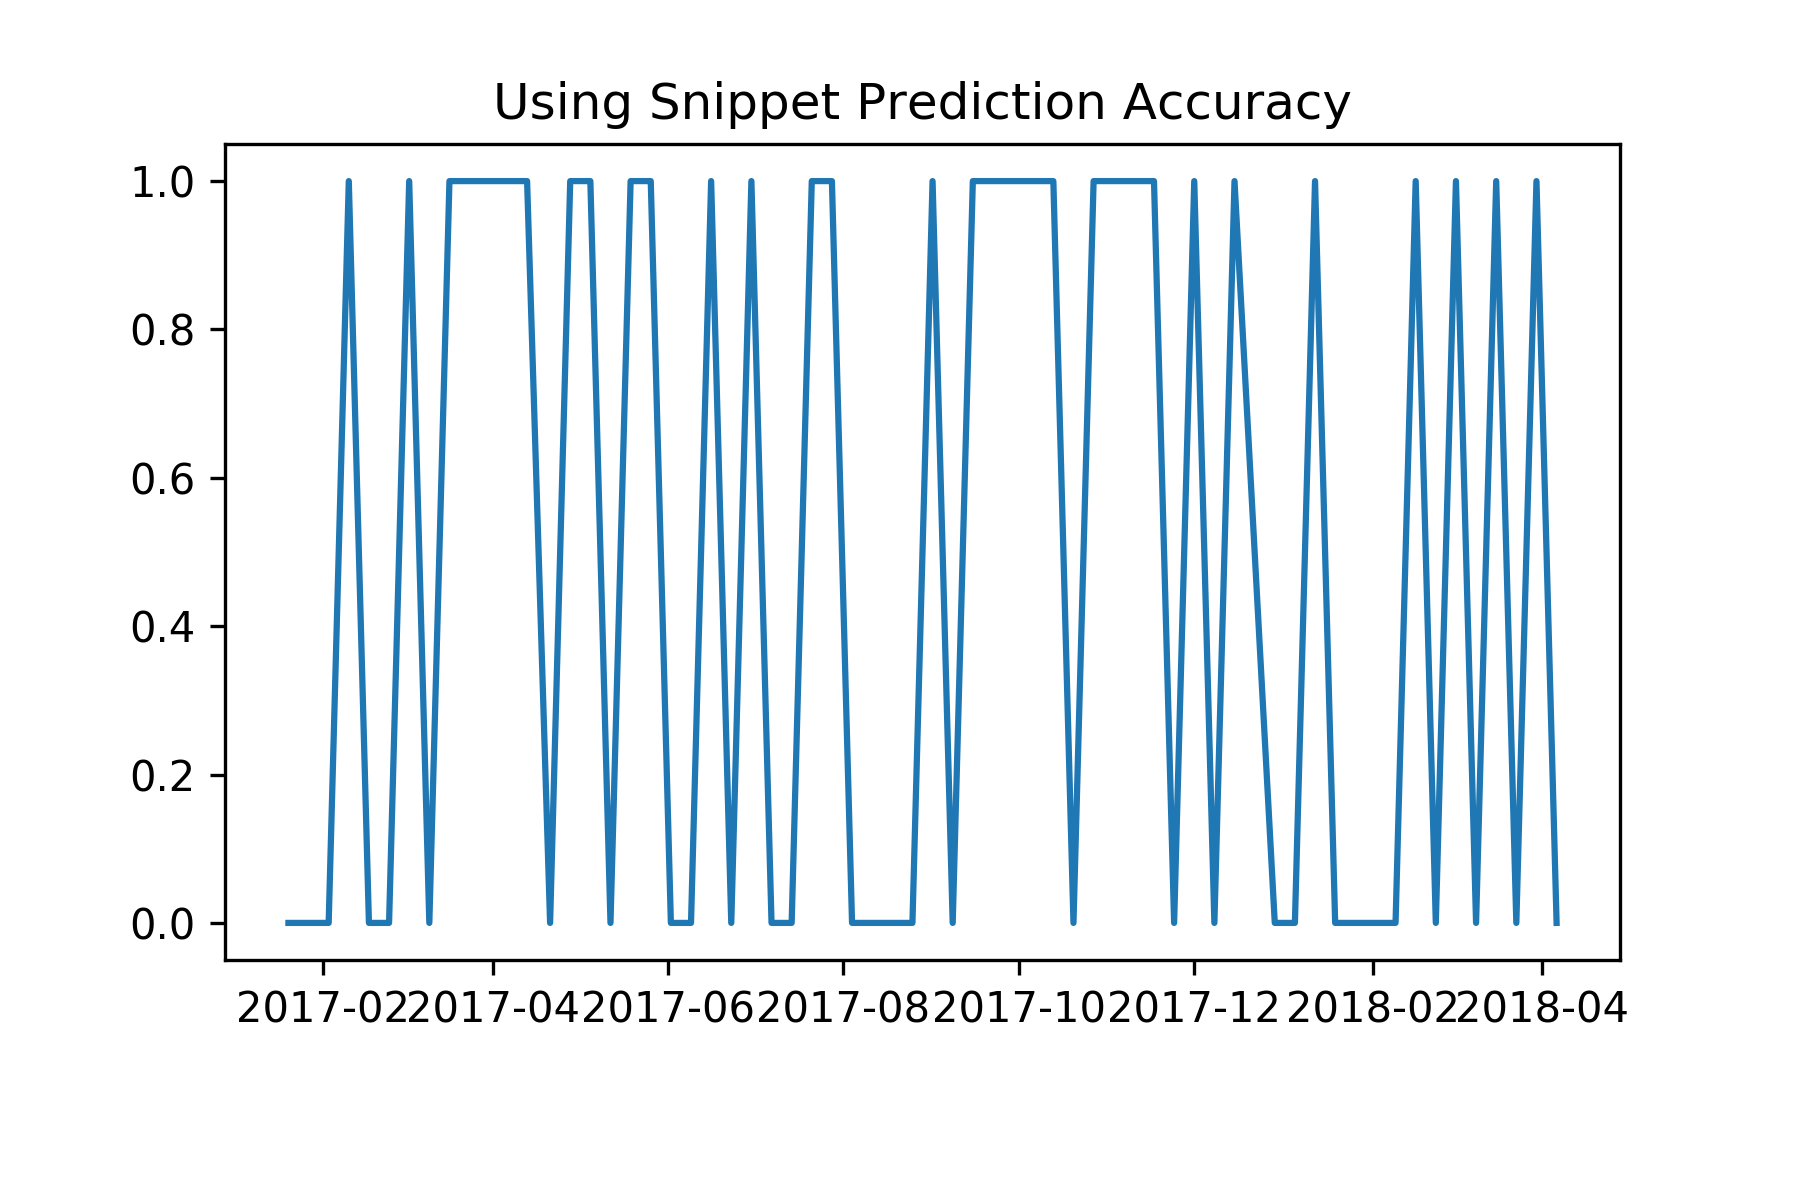
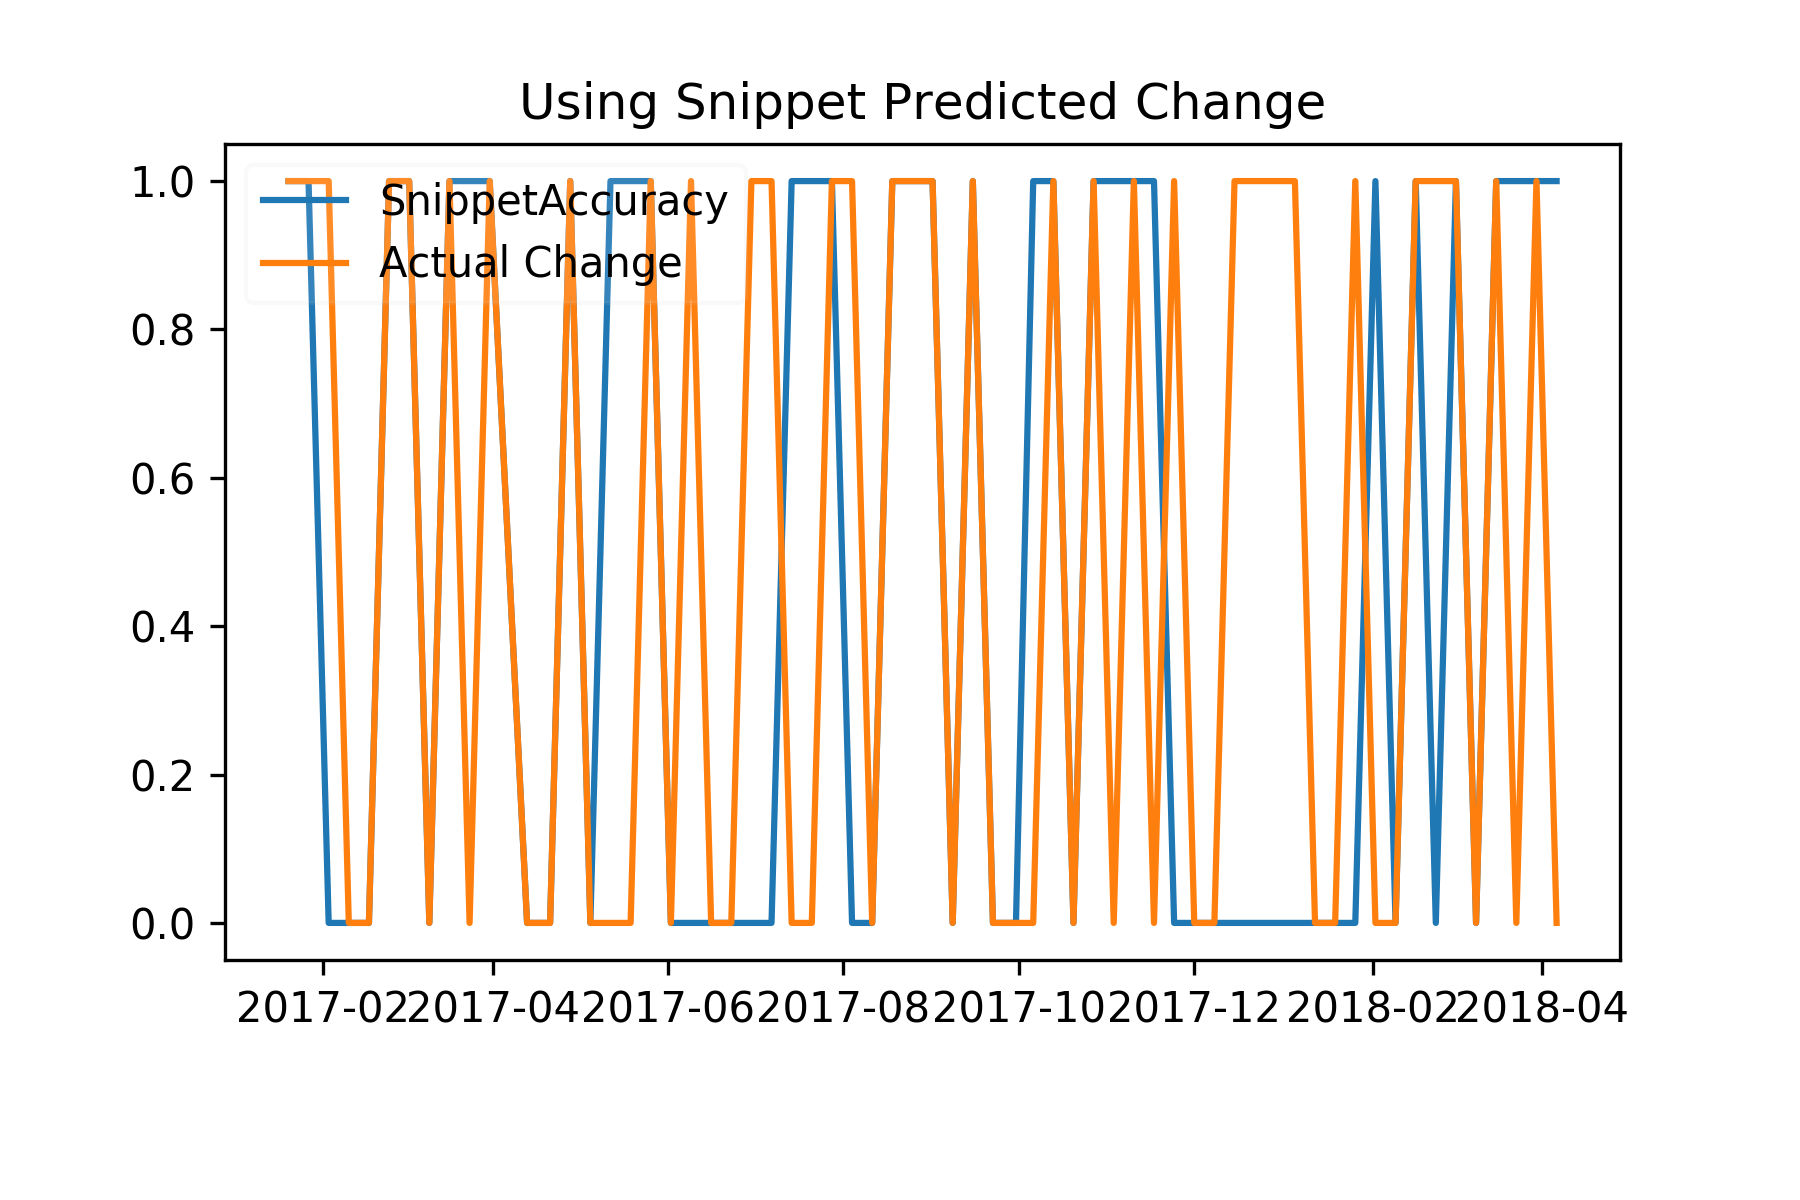
Cleans up the script set, and begins to implement a function to auto determine the pos/neg words
Also implements a stemmer, and produces a word cloud for the stemmed
words

Changed region(s): [[0.1556, 0.0617, 0.8711, 0.7708]]

diff --git a/approval_rating_predictor.py b/approval_rating_predictor.py
@@ -12,15 +12,16 @@ from apiclient.discovery import build
 #import urllib2
 #from bs4 import BeautifulSoup
 import pandas as pd
-from collections import defaultdict
+from collections import defaultdict, Counter
 from datetime import datetime, timedelta
 from string import punctuation
 from wordcloud import WordCloud, STOPWORDS
-import sys
 import matplotlib.pyplot as plt
-import matplotlib.dates as mdates
 import post_process_and_plot as post_process
 import parse_and_clean_html_table as parse_and_clean
+from sklearn.model_selection import train_test_split
+from nltk.stem.snowball import SnowballStemmer
+
 
 config = {}
 execfile("C:\Users\mitch\Desktop\Masters\DataMiningI\DataMiningProject\config.py", config)
@@ -76,7 +77,10 @@ def request_and_write_google_results(poll_df, out_dir, num_requests):
 
 def clean_punctuation(words):
     for c in punctuation:
-        words= words.replace(c," ") 
+        if '\'' in c:
+            words = words.replace(c, '')
+        else:
+            words= words.replace(c," ") 
     return words
 
 def save_word_cloud(words, filename):
@@ -110,10 +114,12 @@ def build_word_cloud(polling_df, out_dir, stop_words):
         filepath = (out_dir + '\\' + my_query +  polling_df.iloc[row]['StartDate']+ '_' + polling_df.iloc[row]['EndDate'] +'.txt')
         data = pd.read_csv(filepath, delimiter="\t")
         snippet_words += get_words_from_dataframe(data, 'Snippet')
-        title_words   +=get_words_from_dataframe(data, 'Title')
-        
-    save_word_cloud(snippet_words, 'snippet_word_cloud')
-    save_word_cloud(title_words, 'title_word_cloud')
+        title_words   += get_words_from_dataframe(data, 'Title')
+    #save_word_cloud(snippet_words, 'snippet_word_cloud')
+    #save_word_cloud(title_words, 'title_word_cloud')
+    #print("".join(stem_words(snippet_words)))
+    save_word_cloud("".join(stem_words(snippet_words)), 'stemmed_snippet_cloud')
+    save_word_cloud("".join(stem_words(title_words)), 'stemmed_title_cloud')
 
 def determine_sentiment_from_words(pos_words, neg_words, words_to_check):
     ##Less negative words count as positive for trump
@@ -123,8 +129,34 @@ def determine_sentiment_from_words(pos_words, neg_words, words_to_check):
             overall_sentiment += 1
         elif word in neg_words:
             overall_sentiment -= 1
-    #print(overall_sentiment)
     return overall_sentiment
+
+def stem_words(words_to_stem):
+    stemmer = SnowballStemmer("english")
+    words_ret = []
+    for words in words_to_stem:
+        words_ret.append(stemmer.stem(words))
+    return words_ret
+
+def determine_sentiment_auto(polling_df, out_dir):
+    X_train, X_test, y_train, y_test = train_test_split(polling_df[['StartDate','EndDate']], polling_df['ApprovalPosChange'])
+    positive_counter = Counter()
+    negative_counter = Counter()
+    for index, row in X_train.iterrows():
+        filepath = (out_dir + '\\' + my_query +  row['StartDate']+ '_' + row['EndDate'] +'.txt')
+        data = pd.read_csv(filepath, delimiter="\t")
+        snippet_words = get_words_from_dataframe(data, 'Snippet')
+        title_words   = get_words_from_dataframe(data, 'Title')
+        #test_stem = (stem_words(snippet_words.split()))
+        all_words = stem_words(snippet_words.split() + title_words.split())
+        if polling_df.loc[index, 'ApprovalPosChange'] == 1:
+            for word in all_words:
+                positive_counter[word] += 1
+        else:
+            for word in all_words:
+                ##If we don't add all -1 will be weighted equally
+                negative_counter[word] += 1
+    return (positive_counter, negative_counter)
 
 def predict_approval_rating_change(polling_data, out_dir, pos_words, neg_words):
     rows, _ = polling_data.shape
@@ -134,22 +166,20 @@ def predict_approval_rating_change(polling_data, out_dir, pos_words, neg_words):
         data = pd.read_csv(filepath, delimiter="\t")
         snippet_words = get_words_from_dataframe(data, 'Snippet')
         title_words   = get_words_from_dataframe(data, 'Title')
-        #polling_data.iloc[row]['SnippetPred'] = determine_sentiment_from_words(pos_words, neg_words, snippet_words)
         sentiment_values['snippet_words'].append(determine_sentiment_from_words(pos_words, neg_words, snippet_words))
-        #polling_data.iloc[row]['TitlePred'] = determine_sentiment_from_words(pos_words, neg_words, title_words)
         sentiment_values['title_words'].append(determine_sentiment_from_words(pos_words, neg_words, title_words))
     return sentiment_values
     
 def personal_sentiment_analysis(reuters_df, out_dir, positive_words, negative_words):
-    #reuters_df['ApprovalChange'] = reuters_df.loc[:,'Approve'].diff().fillna(0)
-    approval_change_series = reuters_df.loc[:,'Approve'].diff().fillna(0)
-    reuters_df['ApprovalChange'] = approval_change_series
+    reuters_df['ApprovalChange']    = reuters_df.loc[:,'Approve'].diff(-1).fillna(0)
     reuters_df['ApprovalPosChange'] = (reuters_df.loc[:,'ApprovalChange'] >= 0)
+    
     sentiment_values = predict_approval_rating_change(reuters_df, out_dir, positive_words, negative_words)
-    reuters_df['SnippetChange'] = sentiment_values['snippet_words']
+
+    reuters_df['SnippetChange']  = sentiment_values['snippet_words']
     reuters_df['SnippetPosPred'] = (reuters_df.loc[:,'SnippetChange'] >= 0)
-    reuters_df['TitleChange'] = sentiment_values['title_words']
-    reuters_df['TitlePosPred'] = (reuters_df.loc[:,'TitleChange'] >= 0)
+    reuters_df['TitleChange']    = sentiment_values['title_words']
+    reuters_df['TitlePosPred']   = (reuters_df.loc[:,'TitleChange'] >= 0)
     return reuters_df
 
 def main(my_query, url, out_dir, polling_data_framename, 
@@ -160,7 +190,8 @@ def main(my_query, url, out_dir, polling_data_framename,
         polling_df = parse_and_clean.parse_html_for_table(url, table_index)
         polling_df.to_csv(path_or_buf = out_dir + '\\' + polling_data_framename)
     else:
-        polling_df = pd.DataFrame.from_csv(path = out_dir + '\\' + polling_data_framename)
+        #polling_df = pd.DataFrame.from_csv(path = out_dir + '\\' + polling_data_framename)
+        polling_df = pd.read_csv(out_dir + '\\' + polling_data_framename)
         
     polling_dates = parse_and_clean.modify_dates_to_contain_year(polling_df['Date'], latest_year)
     
@@ -169,14 +200,16 @@ def main(my_query, url, out_dir, polling_data_framename,
     
     #pollsters = set(polling_df['Poll'])
     ##Reuters is most common Pollster
-    reuters_df = polling_df[polling_df['Poll'] == 'Reuters/IpsosReuters']
+    reuters_df = polling_df[polling_df['Poll'] == 'Reuters/IpsosReuters'].copy()
     if collect_new_data:
         request_and_write_google_results(reuters_df, out_dir, num_requests)
     
     if populate_wordcloud:
         build_word_cloud(reuters_df, out_dir, stop_words)
-    
     reuters_df = personal_sentiment_analysis(reuters_df, out_dir, positive_words, negative_words)
+
+    pos_count, neg_count = determine_sentiment_auto(reuters_df, out_dir)
+    print(pos_count.most_common(20),neg_count.most_common(20))
     #nltk_sentiment_analysis(reuters_df, out_dir)
     post_process.run_post_processing(reuters_df, out_dir)
 
@@ -191,7 +224,7 @@ if __name__ == "__main__":
     #num_requests = 10
     num_requests = 10
     collect_new_data = False
-    populate_wordcloud = False
+    populate_wordcloud = True
     positive_words = ['deal', 'iran', 'rally', 
                       'aid', 'won', 'top', 'mexico', 
                       'taxes', 'tax', 'plan', 'korea', 'military',

diff --git a/post_process_and_plot.py b/post_process_and_plot.py
@@ -4,6 +4,7 @@ Created on Mon Apr 16 19:27:46 2018
 
 @author: mitch
 """
+from __future__ import division
 import pandas as pd
 import matplotlib.pyplot as plt
 import matplotlib.dates as mdates
@@ -18,18 +19,29 @@ def plot_accuracy_data(polling_results_df, out_dir):
     x = [datetime.strptime(d,'%Y-%m-%d').date() for d in polling_results_df['StartDate']]
     plt.gca().xaxis.set_major_formatter(mdates.DateFormatter('%m/%d/%Y'))
     #plt.gca().xaxis.set_major_locator(mdates.DayLocator())
-    plt.plot(x,polling_results_df['TitleAccuracy'], label = 'Title Accuracy')
+    plt.plot(x,polling_results_df['TitleAccuracy'], label = 'Title Change')
     plt.gcf().autofmt_xdate()
-    plt.title('Using Article Title Prediction Accuracy')
+    plt.title('Using Article Title Predicted Change')
+    plt.plot(x,polling_results_df['ApprovalPosChange'], label = 'Actual Change')
+    leg = plt.legend(loc = 2)
+    leg.get_frame().set_alpha(0.1)
     plt.savefig(out_dir + '//titleaccuracyplot.png', dpi=300)
-    plt.plot(x,polling_results_df['SnippetAccuracy'], label = 'Snippet Accuracy')
-    plt.title('Comparing Title and Snippet Prediction Accuracy')
+    
+    plt.clf()
+    plt.plot(x,polling_results_df['TitleAccuracy'], label = 'Title Change')
+    plt.gcf().autofmt_xdate()
+    plt.plot(x,polling_results_df['SnippetAccuracy'], label = 'Snippet Change')
+    plt.title('Comparing Title and Snippet Predicted Changes')
     leg = plt.legend(loc = 2)
     leg.get_frame().set_alpha(0.1)
     plt.savefig(out_dir + '//snippet_and_titleaccuracyplot.png', dpi=300)
+    
     plt.clf()
-    plt.title('Using Snippet Prediction Accuracy')
+    plt.title('Using Snippet Predicted Change')
     plt.plot(x,polling_results_df['SnippetAccuracy'])
+    plt.plot(x,polling_results_df['ApprovalPosChange'], label = 'Actual Change')
+    leg = plt.legend(loc = 2)
+    leg.get_frame().set_alpha(0.1)
     plt.savefig(out_dir + '//snippetaccuracyplot.png', dpi=300)
     
 def create_data_report(data,out_dir):
